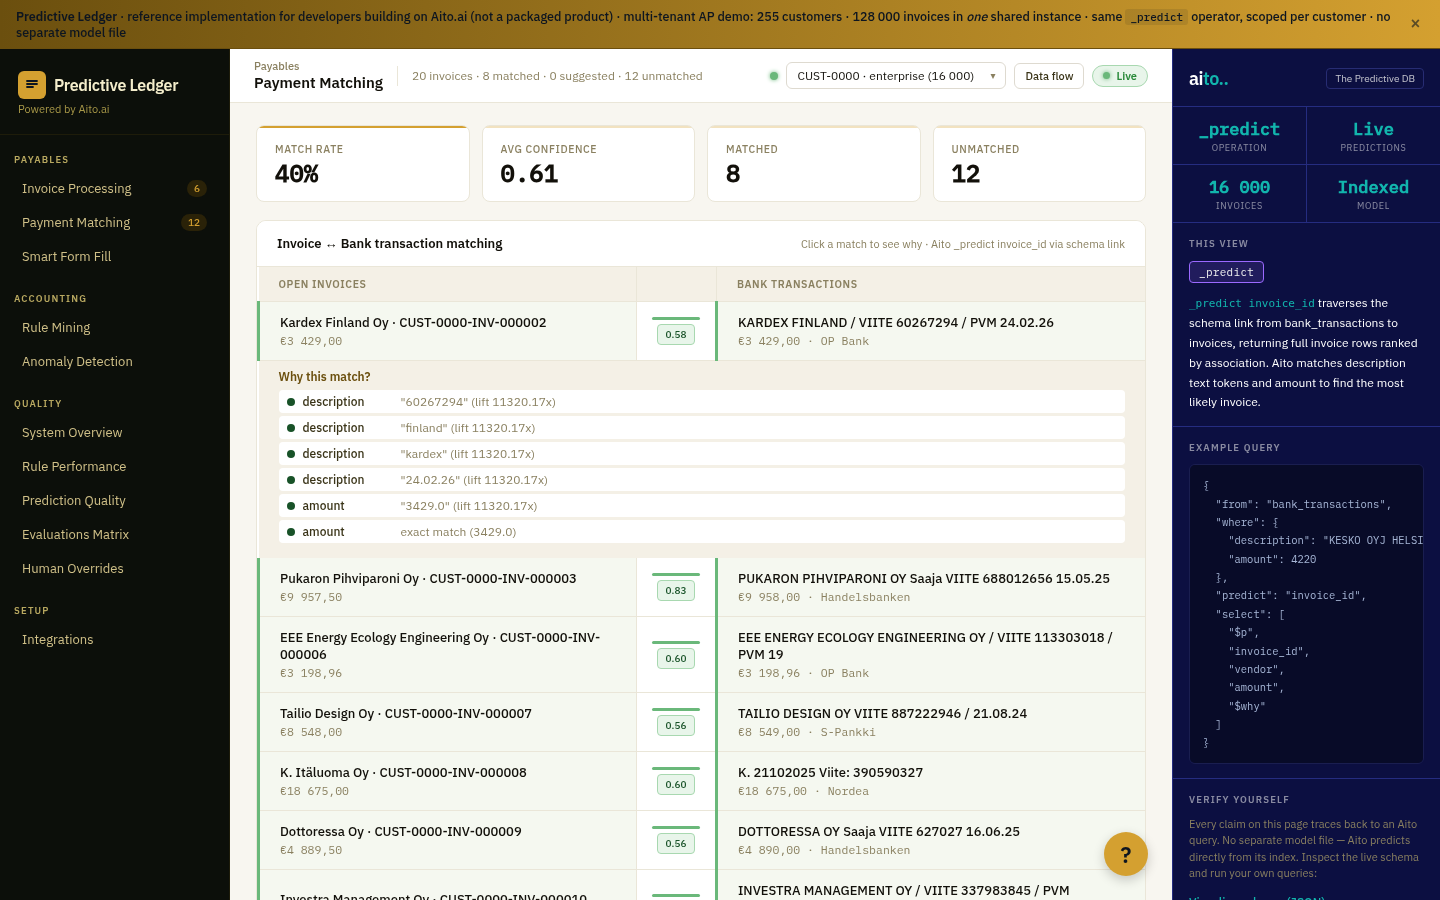
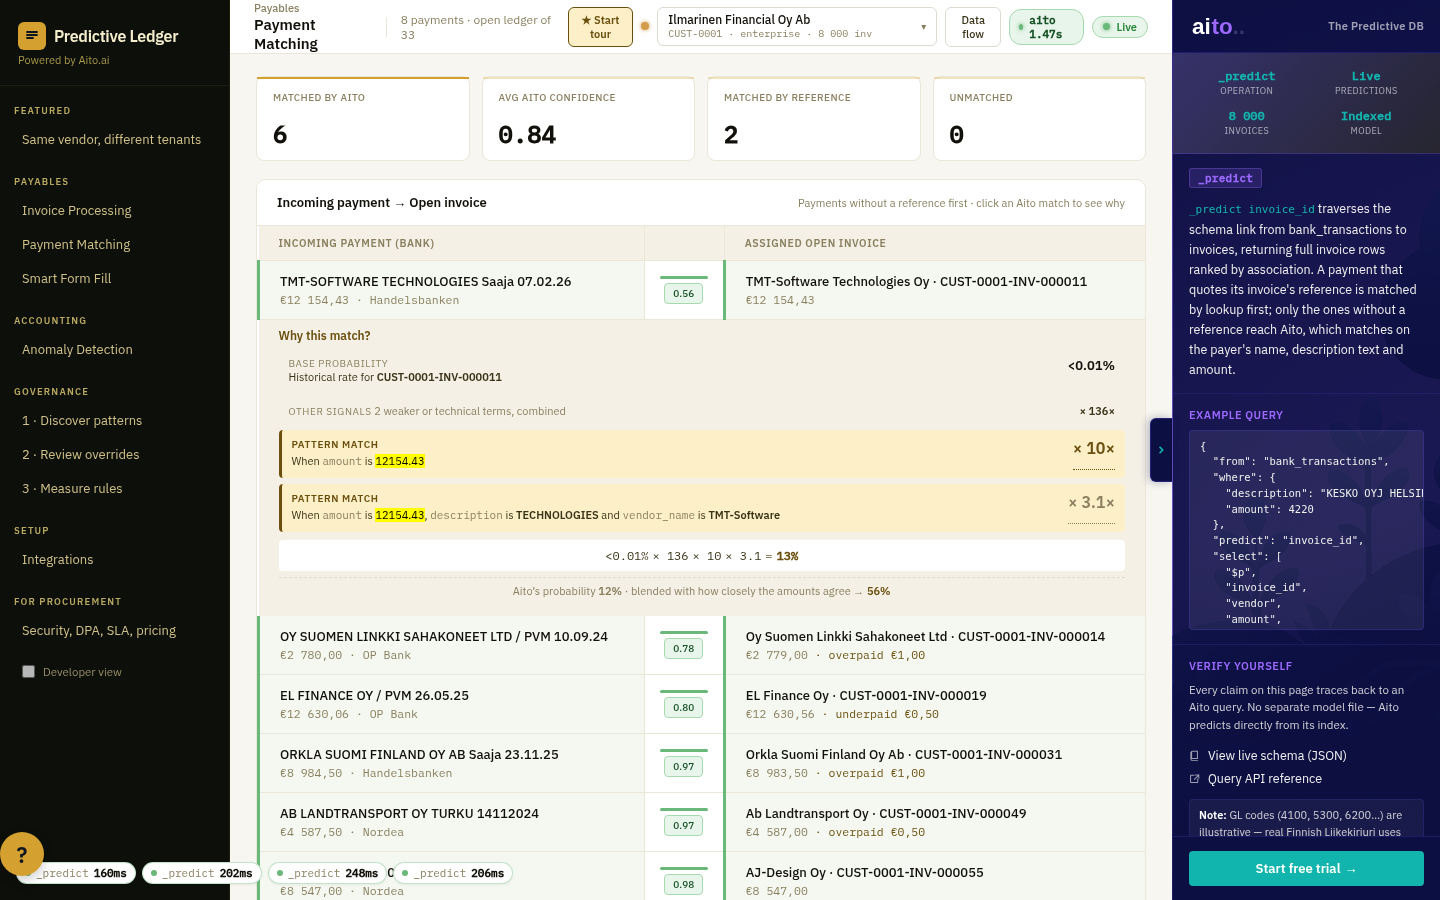
Keep the amount in the matching why panel; recapture its screenshot
#48 hides the raw amount from why cards outside developer view, which is
right for GL coding and wrong here: an amount agreeing to the cent is the
main evidence for a payment match. WhyCards takes `keepFields`, and the
matching page keeps `amount`.

The README's matching screenshot still showed the old page (invoice ->
bank, every payment quoting a VIITE, "40% match rate"); recaptured from
this branch merged with main.

Claude-Session: https://claude.ai/code/session_013ipuYPuXWgaGECHHyN3UtP

diff --git a/frontend/lib/why-display.ts b/frontend/lib/why-display.ts
@@ -26,7 +26,14 @@ function stripLinkPrefix(field: string): string {
   return field.replace(/^invoice_id\./, "");
 }
 
-export function isHiddenInPresentation(factor: WhyFactor): boolean {
+/**
+ * `keepFields` names fields that ARE the evidence on a given page and so
+ * stay visible even though they are hidden elsewhere: on payment matching
+ * the amount agreeing to the cent is the first thing an accountant checks,
+ * while on GL coding the same exact figure is a coincidence. A kept field
+ * is exempt from the bare-number rule too, since its value is a number.
+ */
+export function isHiddenInPresentation(factor: WhyFactor, keepFields: readonly string[] = []): boolean {
   // A conjunction is hidden whole if any part of it is: its lift belongs
   // to the combination, so showing the remaining parts with that lift
   // would credit them with evidence that was not theirs alone.
@@ -34,7 +41,9 @@ export function isHiddenInPresentation(factor: WhyFactor): boolean {
     ...(factor.propositions ?? []),
     ...(factor.field ? [{ field: factor.field, value: factor.value ?? "" }] : []),
   ];
-  return propositions.some(
-    (p) => FIELDS_HIDDEN_IN_PRESENTATION.has(stripLinkPrefix(p.field)) || PURE_NUMBER.test(p.value),
-  );
+  return propositions.some((p) => {
+    const field = stripLinkPrefix(p.field);
+    if (keepFields.includes(field)) return false;
+    return FIELDS_HIDDEN_IN_PRESENTATION.has(field) || PURE_NUMBER.test(p.value);
+  });
 }

diff --git a/frontend/components/prediction/WhyCards.tsx b/frontend/components/prediction/WhyCards.tsx
@@ -29,6 +29,7 @@ export default function WhyCards({
   confidence,
   blendNote,
   modelP,
+  keepFields,
   onHoverFactor,
 }: {
   why: WhyFactor[];
@@ -48,6 +49,8 @@ export default function WhyCards({
    * chain is a decomposition of THIS number rather than of `confidence`.
    */
   modelP?: number;
+  /** Fields that are the evidence on this page; see isHiddenInPresentation. */
+  keepFields?: readonly string[];
   onHoverFactor?: (h: HoverHighlight) => void;
 }) {
   const { developerMode } = useDeveloperMode();
@@ -82,7 +85,7 @@ export default function WhyCards({
   // a raw amount, a bare number) fold into the same line -- see
   // lib/why-display.ts. The arithmetic is unchanged either way.
   const earnsCard = (f: WhyFactor) =>
-    isMaterial(f.lift ?? 1) && (developerMode || !isHiddenInPresentation(f));
+    isMaterial(f.lift ?? 1) && (developerMode || !isHiddenInPresentation(f, keepFields));
   const patterns = allPatterns.filter(earnsCard);
   const minorPatterns = allPatterns.filter((f) => !earnsCard(f));
 

diff --git a/frontend/lib/__tests__/why-display.test.ts b/frontend/lib/__tests__/why-display.test.ts
@@ -41,3 +41,15 @@ test("a legacy flat factor is judged by its field", () => {
 test("the base rate has no propositions and is never hidden", () => {
   assert.equal(isHiddenInPresentation({ type: "base", base_p: 0.2 }), false);
 });
+
+test("a page can keep a field that is its evidence, number and all", () => {
+  // Payment matching: the amount agreeing to the cent is the reason.
+  const amount = pattern({ field: "amount", value: "5966.97" });
+  assert.equal(isHiddenInPresentation(amount, ["amount"]), false);
+  assert.equal(isHiddenInPresentation(pattern({ field: "invoice_id.amount", value: "5966.97" }), ["amount"]), false);
+});
+
+test("keeping amount does not keep category or other bare numbers", () => {
+  assert.equal(isHiddenInPresentation(pattern({ field: "category", value: "logistics" }), ["amount"]), true);
+  assert.equal(isHiddenInPresentation(pattern({ field: "description", value: "07.05.24" }), ["amount"]), true);
+});

diff --git a/frontend/app/matching/page.tsx b/frontend/app/matching/page.tsx
@@ -229,6 +229,7 @@ export default function MatchingPage() {
                             confidence={p.confidence}
                             modelP={p.model_p}
                             blendNote={"blended with how closely the amounts agree \u2192"}
+                            keepFields={["amount"]}
                           />
                         </td>
                       </tr>

diff --git a/docs/verification/0026-no-reference-payments-first.md b/docs/verification/0026-no-reference-payments-first.md
@@ -62,3 +62,18 @@ against an invoice of €1 853,80. The row now says **overpaid €1,00**
   This change shortened the matching subtitle to
   `8 payments · open ledger of 30` so that it no longer runs under the
   bar.
+
+## Re-review after #48 (presentation mode), 2026-09-28
+
+**A #48 change would have removed the key factor from this page.** #48
+hides the raw `amount` from why cards outside developer view, which is
+right for GL coding, where "amount is 10209.0" is a coincidence. On
+payment matching the amount agreeing to the cent is the main evidence,
+worth ×10 on CUST-0001's first row. Merged unchanged, it would have
+folded into "Other signals". `WhyCards` now takes `keepFields`, and the
+matching page keeps `amount`. Two new tests in `why-display.test.ts`
+cover this.
+
+`screenshots/03-matching.png` was recaptured from this branch merged
+with main. The old image showed the previous design: invoice → bank,
+every payment quoting a VIITE, "40% match rate".
